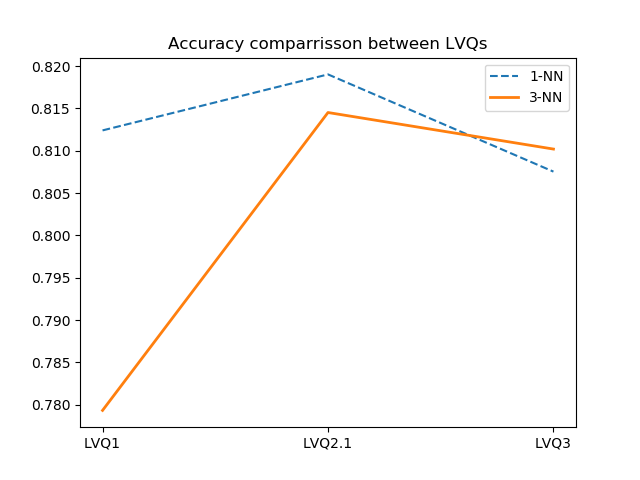
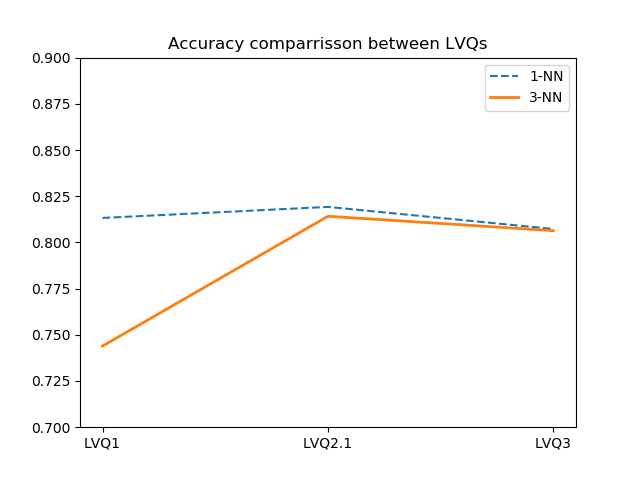
Adjusted plots

diff --git a/mgm4-lista2-codigo/main_lvqs.py b/mgm4-lista2-codigo/main_lvqs.py
@@ -43,7 +43,7 @@ if __name__ == '__main__':
 
 	lvqs = [lvq1, lvq21, lvq3]
 	scores = np.zeros(shape=(4,2))
-	hw_many = 100
+	hw_many = 10
 	protos = generation(dataset, hw_many)
 
 	classes = protos[:,-1]
@@ -95,6 +95,7 @@ if __name__ == '__main__':
 	knn1, = plt.plot(total_acc[:,0], label="1-NN", linestyle='--')
 	knn3, = plt.plot(total_acc[:,1], label="3-NN", linewidth=2)
 	plt.legend(handles=[knn1, knn3])
+	plt.ylim(0.7, 0.9)
 	plt.xticks(x,('LVQ1', 'LVQ2.1', 'LVQ3'))
 	plt.title('Accuracy comparrisson between LVQs')
 	knns.savefig('Accuracy_comparrisson_{}_prototypes.png'.format(hw_many))
